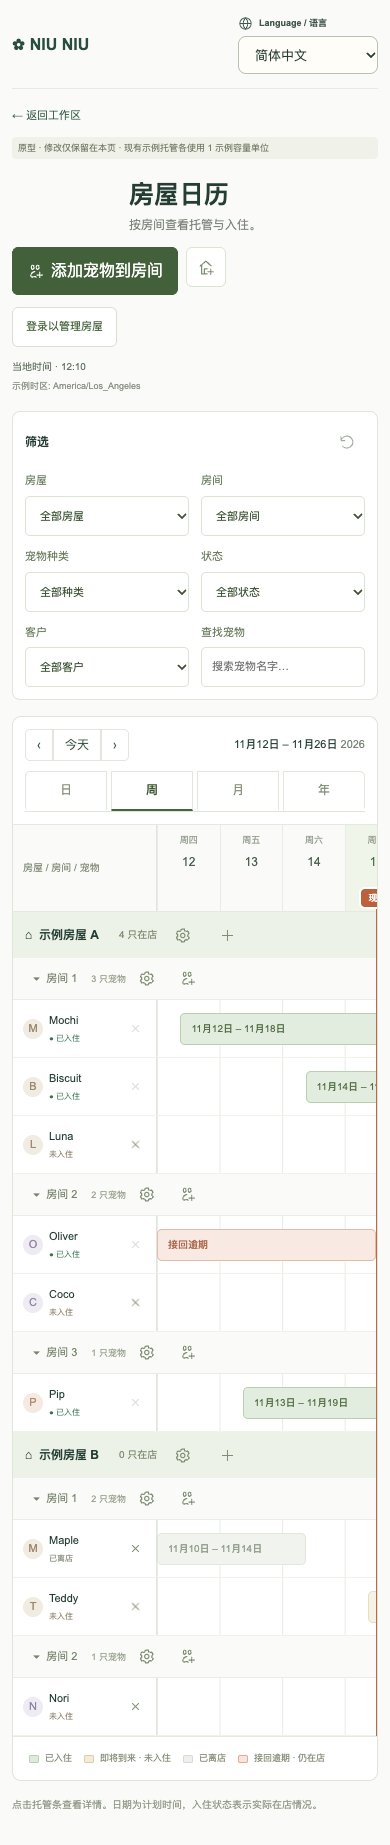
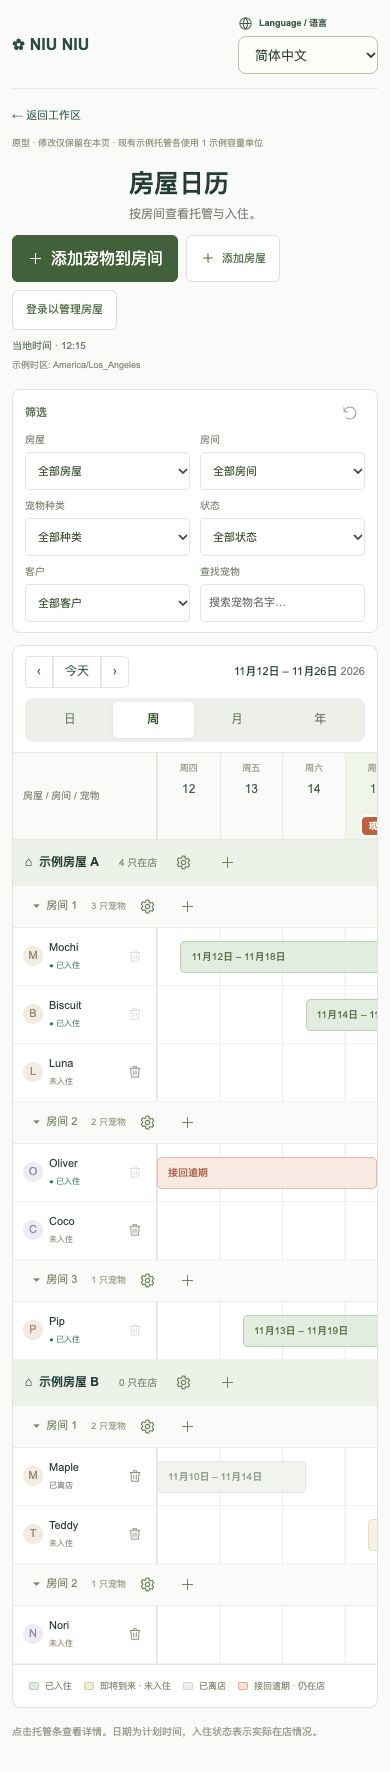
Simplify calendar filters and controls (#43)
* style: simplify calendar filters and controls

* docs: link calendar controls review

diff --git a/apps/web/src/house-calendar.tsx b/apps/web/src/house-calendar.tsx
@@ -71,7 +71,7 @@ export default function HouseCalendar({onLanguageChange}:{onLanguageChange:(lang
  <div className="hc-top"><a href="#">✿ <strong>NIU NIU</strong> <span>FAMILY PAWS</span></a><LanguageSelector onChange={onLanguageChange}/></div>
  <a className="hc-back" href="#/login">← {t('Back to workspace','返回工作区')}</a>
  <p className="hc-demo">{t('Prototype · Changes stay on this page · Existing sample stays use 1 illustrative capacity unit','原型 · 修改仅保留在本页 · 现有示例托管各使用 1 示例容量单位')}</p>
- <div className="hc-title"><div><h1>{t('House calendar','房屋日历')}</h1><p>{t('Stays and check-ins, by room.','按房间查看托管与入住。')}</p></div><div className="hc-title-actions"><div className="hc-main-actions"><button className="hc-apply hc-add-placement" onClick={()=>setAssignment(null)}><Icon name="pet-add"/>{t('Add pet to room','添加宠物到房间')}</button><button className="hc-settings hc-top-icon" title={t('Add house','添加房屋')} aria-label={t('Add house','添加房屋')} onClick={()=>setSettings({house:nextId.current++,creating:true})}><Icon name="house-add"/></button></div>{admin?<button className="hc-settings hc-top-icon" title={t('Manage houses & rooms','管理房屋与房间')} aria-label={t('Manage houses & rooms','管理房屋与房间')} onClick={()=>setManage(true)}><Icon name="settings"/></button>:<a className="hc-manage" href="#/login">{t('Sign in to manage houses','登录以管理房屋')}</a>}<div className="hc-live"><span/> {t('Local time','当地时间')} · {now.toLocaleTimeString(locale,{hour:'2-digit',minute:'2-digit'})}<small>{t('Sample timezone','示例时区')}: {Intl.DateTimeFormat().resolvedOptions().timeZone}</small></div></div></div>
+ <div className="hc-title"><div><h1>{t('House calendar','房屋日历')}</h1><p>{t('Stays and check-ins, by room.','按房间查看托管与入住。')}</p></div><div className="hc-title-actions"><div className="hc-main-actions"><button className="hc-apply hc-add-placement" onClick={()=>setAssignment(null)}><Icon name="plus"/>{t('Add pet to room','添加宠物到房间')}</button><button className="hc-manage hc-add-house" title={t('Add house','添加房屋')} aria-label={t('Add house','添加房屋')} onClick={()=>setSettings({house:nextId.current++,creating:true})}><Icon name="plus"/>{t('Add house','添加房屋')}</button>{admin?<button className="hc-settings hc-top-icon" title={t('Manage houses & rooms','管理房屋与房间')} aria-label={t('Manage houses & rooms','管理房屋与房间')} onClick={()=>setManage(true)}><Icon name="settings"/></button>:<a className="hc-manage" href="#/login">{t('Sign in to manage houses','登录以管理房屋')}</a>}</div><div className="hc-live"><span/> {t('Local time','当地时间')} · {now.toLocaleTimeString(locale,{hour:'2-digit',minute:'2-digit'})}<small>{t('Sample timezone','示例时区')}: {Intl.DateTimeFormat().resolvedOptions().timeZone}</small></div></div></div>
  {notice&&<p className="hc-notice" role="status">{notice}</p>}
  <section className="hc-filters" aria-label={t('Filters','筛选')}><div className="hc-filters-heading"><h2>{t('Filters','筛选')}</h2><button className="hc-clear" title={t('Clear filters','清除筛选')} aria-label={t('Clear filters','清除筛选')} disabled={house==='all'&&roomFilter==='all'&&speciesFilter==='all'&&statusFilter==='all'&&customerFilter==='all'&&!query} onClick={()=>{setHouse('all');setRoomFilter('all');setSpeciesFilter('all');setStatusFilter('all');setCustomerFilter('all');setQuery('');}}><Icon name="reset"/></button></div><div className="hc-filter-fields">
  <label>{t('House','房屋')}<select aria-label={t('House','房屋')} value={house} onChange={e=>{setHouse(e.target.value);setRoomFilter('all');}}><option value="all">{t('All houses','全部房屋')}</option>{locations.map(({id:h})=><option key={h} value={h}>{houseName(h)}</option>)}</select></label>
@@ -85,7 +85,7 @@ export default function HouseCalendar({onLanguageChange}:{onLanguageChange:(lang
  <div className="hc-scroll" id="hc-timeline-panel" role="tabpanel" aria-labelledby={'hc-tab-'+scale} tabIndex={0} aria-label={t('Scroll timeline horizontally','可横向滚动时间轴')}><div className={'hc-grid hc-'+scale}>
  {nowPos>=0&&nowPos<=100&&<div className="hc-now-overlay"><div style={{left:`${nowPos}%`}}><span className="hc-now-badge">{t('Now','现在')}</span></div></div>}
  <div className="hc-axis"><div className="hc-label">{t('House / room / pet','房屋 / 房间 / 宠物')}</div><div className="hc-track hc-ticks">{ticks.map((d,i)=><div key={i} style={{left:`${i/ticks.length*100}%`,width:`${100/ticks.length}%`}} className={date(d)===date(now)?'today':''}><small>{scale==='day'?date(d):scale==='year'?d.getFullYear():date(d,{weekday:'short'})}</small><strong>{scale==='day'?d.getHours()+':00':scale==='year'?date(d,{month:'short'}):d.getDate()}</strong></div>)}</div></div>
- {locations.filter(h=>(house==='all'||house===String(h.id))&&(!query&&speciesFilter==='all'&&statusFilter==='all'&&customerFilter==='all'&&roomFilter==='all'||visible.some(s=>s.house===h.id))).map(({id:h,rooms})=><React.Fragment key={h}><div className="hc-house">⌂ &nbsp;{houseName(h)} <small>{visible.filter(s=>s.house===h&&s.status==='in').length} {t('in care','只在店')}</small><button className="hc-settings" title={t('House settings','房屋设置')} aria-label={`${t('House settings','房屋设置')}: ${houseName(h)}`} onClick={()=>setSettings({house:h})}><Icon name="settings"/></button><button className="hc-settings" title={t('Add room','添加房间')} aria-label={t('Add room','添加房间')} onClick={()=>setSettings({house:h,room:nextId.current++,creating:true})}><Icon name="plus"/></button></div>{!rooms.length&&<p className="hc-empty">{t('No rooms yet. Add a room to place pets.','暂无房间，添加后可安排宠物。')}</p>}{rooms.filter(r=>roomFilter==='all'||roomFilter===h+'-'+r).filter(r=>!query&&speciesFilter==='all'&&statusFilter==='all'&&customerFilter==='all'||visible.some(s=>s.house===h&&s.room===r)).map(r=>{const key=h+'-'+r,rows=visible.filter(s=>s.house===h&&s.room===r),closed=collapsed.includes(key);return <React.Fragment key={r}><div className="hc-room-heading"><button className="hc-room" aria-expanded={!closed} onClick={()=>setCollapsed(closed?collapsed.filter(v=>v!==key):[...collapsed,key])}>{closed?'▸':'▾'} &nbsp;{roomName(h,r)}<small>{rows.length} {t('pets','只宠物')}</small></button><button className="hc-settings" title={t('Room settings','房间设置')} aria-label={`${t('Room settings','房间设置')}: ${houseName(h)} · ${roomName(h,r)}`} onClick={()=>setSettings({house:h,room:r})}><Icon name="settings"/></button><button className="hc-settings" title={t('Add pet','添加宠物')} aria-label={`${t('Add pet','添加宠物')}: ${houseName(h)} · ${roomName(h,r)}`} onClick={()=>setAssignment({house:h,room:r})}><Icon name="pet-add"/></button></div>{!closed&&!rows.length&&<p className="hc-room-empty">{t('No stays assigned','尚未安排托管')}</p>}{!closed&&rows.map(s=>{const left=pos(when(s.start)),right=pos(when(s.end)),actualEnd=s.overdue?nowPos:right;return <div className="hc-pet" key={s.id}><div className="hc-label"><span className={'hc-avatar '+s.species}>{s.name.slice(0,1)}</span><div><strong title={customerName(customerFor(s.name))}>{s.name}</strong><small className={'hc-status '+s.status}>{status(s)}</small></div><button className="hc-remove-pet" title={s.status==='in'?t('Record pickup before removing an in-care pet','在店宠物需先记录接回'):t('Remove placement','移除安排')} aria-label={`${t('Remove placement','移除安排')}: ${s.name}`} disabled={s.status==='in'} onClick={()=>{if(window.confirm(t('Remove this placement from the preview? The pet profile is kept.','从预览中移除此安排？宠物档案会保留。'))){setStays(previous=>previous.filter(p=>p.id!==s.id));setNotice(t('Placement removed. Pet profile kept.','已移除安排，宠物档案保留。'));}}}><Icon name="close"/></button></div><div className="hc-track" style={{backgroundSize:`${100/ticks.length}% 100%`}}>{actualEnd>0&&left<100&&<button className={'hc-stay '+s.status+(s.overdue?' overdue':'')} style={{left:`${Math.max(0,left)}%`,width:`${Math.min(100,actualEnd)-Math.max(0,left)}%`}} aria-label={`${s.name}: ${status(s)}, ${date(when(s.start))} – ${date(when(s.end))}${s.overdue?' · '+t('Pickup overdue','接回逾期'):''}`} onClick={()=>setSelected(s)}><span>{s.overdue?t('Pickup overdue','接回逾期'):date(when(s.start))+' – '+date(when(s.end))}</span></button>}</div></div>})}</React.Fragment>;})}</React.Fragment>)}
+ {locations.filter(h=>(house==='all'||house===String(h.id))&&(!query&&speciesFilter==='all'&&statusFilter==='all'&&customerFilter==='all'&&roomFilter==='all'||visible.some(s=>s.house===h.id))).map(({id:h,rooms})=><React.Fragment key={h}><div className="hc-house">⌂ &nbsp;{houseName(h)} <small>{visible.filter(s=>s.house===h&&s.status==='in').length} {t('in care','只在店')}</small><button className="hc-settings" title={t('House settings','房屋设置')} aria-label={`${t('House settings','房屋设置')}: ${houseName(h)}`} onClick={()=>setSettings({house:h})}><Icon name="settings"/></button><button className="hc-settings" title={t('Add room','添加房间')} aria-label={t('Add room','添加房间')} onClick={()=>setSettings({house:h,room:nextId.current++,creating:true})}><Icon name="plus"/></button></div>{!rooms.length&&<p className="hc-empty">{t('No rooms yet. Add a room to place pets.','暂无房间，添加后可安排宠物。')}</p>}{rooms.filter(r=>roomFilter==='all'||roomFilter===h+'-'+r).filter(r=>!query&&speciesFilter==='all'&&statusFilter==='all'&&customerFilter==='all'||visible.some(s=>s.house===h&&s.room===r)).map(r=>{const key=h+'-'+r,rows=visible.filter(s=>s.house===h&&s.room===r),closed=collapsed.includes(key);return <React.Fragment key={r}><div className="hc-room-heading"><button className="hc-room" aria-expanded={!closed} onClick={()=>setCollapsed(closed?collapsed.filter(v=>v!==key):[...collapsed,key])}>{closed?'▸':'▾'} &nbsp;{roomName(h,r)}<small>{rows.length} {t('pets','只宠物')}</small></button><button className="hc-settings" title={t('Room settings','房间设置')} aria-label={`${t('Room settings','房间设置')}: ${houseName(h)} · ${roomName(h,r)}`} onClick={()=>setSettings({house:h,room:r})}><Icon name="settings"/></button><button className="hc-settings" title={t('Add pet','添加宠物')} aria-label={`${t('Add pet','添加宠物')}: ${houseName(h)} · ${roomName(h,r)}`} onClick={()=>setAssignment({house:h,room:r})}><Icon name="plus"/></button></div>{!closed&&!rows.length&&<p className="hc-room-empty">{t('No stays assigned','尚未安排托管')}</p>}{!closed&&rows.map(s=>{const left=pos(when(s.start)),right=pos(when(s.end)),actualEnd=s.overdue?nowPos:right;return <div className="hc-pet" key={s.id}><div className="hc-label"><span className={'hc-avatar '+s.species}>{s.name.slice(0,1)}</span><div><strong title={customerName(customerFor(s.name))}>{s.name}</strong><small className={'hc-status '+s.status}>{status(s)}</small></div><button className="hc-remove-pet" title={s.status==='in'?t('Record pickup before removing an in-care pet','在店宠物需先记录接回'):t('Remove placement','移除安排')} aria-label={`${t('Remove placement','移除安排')}: ${s.name}`} disabled={s.status==='in'} onClick={()=>{if(window.confirm(t('Remove this placement from the preview? The pet profile is kept.','从预览中移除此安排？宠物档案会保留。'))){setStays(previous=>previous.filter(p=>p.id!==s.id));setNotice(t('Placement removed. Pet profile kept.','已移除安排，宠物档案保留。'));}}}><Icon name="trash"/></button></div><div className="hc-track" style={{backgroundSize:`${100/ticks.length}% 100%`}}>{actualEnd>0&&left<100&&<button className={'hc-stay '+s.status+(s.overdue?' overdue':'')} style={{left:`${Math.max(0,left)}%`,width:`${Math.min(100,actualEnd)-Math.max(0,left)}%`}} aria-label={`${s.name}: ${status(s)}, ${date(when(s.start))} – ${date(when(s.end))}${s.overdue?' · '+t('Pickup overdue','接回逾期'):''}`} onClick={()=>setSelected(s)}><span>{s.overdue?t('Pickup overdue','接回逾期'):date(when(s.start))+' – '+date(when(s.end))}</span></button>}</div></div>})}</React.Fragment>;})}</React.Fragment>)}
  {!visible.length&&<p className="hc-empty">{t('No pets match these filters.','没有符合筛选条件的宠物。')}</p>}
 
  </div></div><div className="hc-legend"><span><i className="in"/>{t('Checked in','已入住')}</span><span><i className="upcoming"/>{t('Upcoming · not checked in','即将到来 · 未入住')}</span><span><i className="out"/>{t('Checked out','已离店')}</span><span><i className="overdue"/>{t('Pickup overdue · still in care','接回逾期 · 仍在店')}</span></div></section>

diff --git a/apps/web/src/house-calendar.css b/apps/web/src/house-calendar.css
@@ -43,4 +43,9 @@
 .hc-filters{margin:22px 0 16px;padding:16px;background:#fff;border:1px solid #e0e6db;border-radius:8px}.hc-filters-heading{display:flex;align-items:center;justify-content:space-between;margin-bottom:12px}.hc-filters h2{font-size:12px;font-weight:600;margin:0}.hc-clear{border:0;background:none;color:#59744b;font-size:11px;padding:5px}.hc-clear:disabled{color:#a5ad9e;cursor:default}.hc-filter-fields{display:grid;grid-template-columns:1fr 1.5fr 1fr 1fr 1.4fr;gap:12px}.hc-filter-fields label,.hc-settings-form label{display:grid;gap:6px;font-size:11px;color:#6d7e61}.hc-filter-fields input,.hc-filter-fields select,.hc-settings-form input{width:100%;min-width:0;min-height:40px;padding:9px 10px;border:1px solid #dde4d6;border-radius:5px;background:#fff;color:#405537;font:inherit}.hc-filter-fields .hc-search{max-width:none}.hc-range .hc-scales{margin:0}.hc-settings-form{display:grid;gap:16px}.hc-settings-form label{font-size:12px}.hc-settings-form .hc-setup-note{margin:0}.hc-setting-parent{font-size:13px;margin:0;color:#647a55}.hc-settings-actions{display:flex;gap:10px;justify-content:flex-end;margin-top:8px}.hc-apply{border:1px solid #426039;background:#426039;color:#fff;border-radius:6px;padding:10px 14px;min-height:40px;font-size:12px}
 @media(max-width:700px){.hc-filter-fields{grid-template-columns:1fr 1fr;gap:12px}.hc-filter-fields .hc-search{grid-column:1/-1}.hc-range .hc-scales{width:100%;order:3}.hc-range{flex-wrap:wrap}.hc-filters{padding:12px;margin-top:18px}.hc-settings-form{gap:14px}}
 .hc-main-actions{display:flex;gap:8px;flex-wrap:wrap;justify-content:flex-end}.hc-row-action{border:0;background:transparent;font-size:11px;color:#58794b;padding:8px 10px;border-radius:5px;min-height:36px}.hc-row-action:hover{background:#e7eddf}.hc-house .hc-row-action{font-weight:400}.hc-remove-pet{display:flex;align-items:center;justify-content:center;margin-left:auto;border:0;background:none;padding:5px;color:#86947a;border-radius:4px;min-width:28px;min-height:30px}.hc-remove-pet svg{width:13px;height:13px}.hc-remove-pet:disabled{opacity:.3;cursor:default}.hc-remove-pet:not(:disabled):hover{background:#f6e9e3;color:#9a5340}.hc-danger{border:1px solid #e3c2b7;background:#fff8f4;color:#9b5740;padding:9px 12px;border-radius:6px;font-size:12px;min-height:40px}.hc-danger:disabled{opacity:.5;cursor:default}.hc-remove-section{border-top:1px solid #e5e9df;padding-top:16px}.hc-settings-form select{width:100%;min-height:40px;padding:9px 10px;border:1px solid #dde4d6;border-radius:5px;background:white;color:#405537;font:inherit}.hc-time-fields{display:grid;grid-template-columns:1fr 1fr;gap:12px}.hc-availability{background:#f6f8f1;padding:12px;border-radius:6px;font-size:12px;max-height:220px;overflow:auto}.hc-availability p{margin:12px 0 4px;font-weight:600}.hc-availability small{display:block;margin:5px 0;line-height:1.5;color:#758368}.hc-apply:disabled{opacity:.45;cursor:default}.hc-room-empty{font-size:11px;color:#8b977e;margin:0;padding:15px 28px;border-bottom:1px solid #eef1e8}.hc-notice{font-size:12px;padding:10px 14px;background:#edf4e7;color:#58714a;border-radius:6px}.hc-demo{max-width:100%;line-height:1.6}.hc-settings-form input[type=datetime-local]{font-size:12px;min-width:0}@media(max-width:700px){.hc-main-actions{justify-content:flex-start}.hc-time-fields{grid-template-columns:1fr}.hc-label{gap:6px}.hc-remove-pet{min-width:22px;padding:3px}.hc-label strong{font-size:11px}.hc-avatar{width:20px;height:20px}.hc-demo{display:block;margin:10px 0 0}.hc-house .hc-row-action{padding-left:4px}.hc-settings-form input{min-width:0}.hc-label .hc-status{font-size:8px}}
-.hc-filter-fields{grid-template-columns:repeat(3,minmax(0,1fr))}.hc-scales[role=tablist]{background:transparent;border-radius:0;border-bottom:1px solid #e0e6d9;padding:0;gap:4px}.hc-scales [role=tab]{border-radius:0;background:transparent;box-shadow:none;border-bottom:2px solid transparent;min-height:40px;color:#85917a}.hc-scales [role=tab][aria-selected=true]{border-bottom-color:#446537;color:#36552c;font-weight:600;background:transparent;box-shadow:none}.hc-top-icon{width:40px;height:40px;border:1px solid #dce4d4;background:#fff}.hc-title-actions>.hc-top-icon{align-self:flex-end}.hc-clear{display:grid;place-items:center;width:36px;height:36px;border-radius:5px}.hc-clear:not(:disabled):hover{background:#f1f5eb}.hc-clear svg{width:16px;height:16px}.hc-add-placement{display:inline-flex;align-items:center;gap:7px}.hc-add-placement svg{width:17px;height:17px}.hc-house>.hc-settings,.hc-room-heading>.hc-settings{width:36px;height:36px}@media(max-width:700px){.hc-filter-fields{grid-template-columns:repeat(2,minmax(0,1fr))}.hc-filter-fields .hc-search{grid-column:auto}.hc-title-actions>.hc-top-icon{align-self:flex-start}.hc-range .hc-scales{justify-content:flex-start}.hc-scales [role=tab]{flex:1}.hc-settings{min-width:36px}.hc-room-heading{gap:4px}}
+.hc-filter-fields{grid-template-columns:repeat(3,minmax(0,1fr))}.hc-scales[role=tablist]{background:#edf0e9;border-radius:8px;border:0;padding:4px;gap:2px}.hc-scales [role=tab]{border-radius:5px;border:0;background:transparent;box-shadow:none;min-height:34px;color:#6d7c64;padding:8px 15px}.hc-scales [role=tab][aria-selected=true]{color:#36552c;font-weight:600;background:#fff;box-shadow:0 1px 4px #293d2714}.hc-top-icon{width:40px;height:40px;border:1px solid #dce4d4;background:#fff}.hc-title-actions>.hc-top-icon{align-self:flex-end}.hc-clear{display:grid;place-items:center;width:36px;height:36px;border-radius:5px}.hc-clear:not(:disabled):hover{background:#f1f5eb}.hc-clear svg{width:16px;height:16px}.hc-add-placement{display:inline-flex;align-items:center;gap:7px}.hc-add-placement svg{width:17px;height:17px}.hc-house>.hc-settings,.hc-room-heading>.hc-settings{width:36px;height:36px}@media(max-width:700px){.hc-filter-fields{grid-template-columns:repeat(2,minmax(0,1fr))}.hc-filter-fields .hc-search{grid-column:auto}.hc-title-actions>.hc-top-icon{align-self:flex-start}.hc-range .hc-scales{justify-content:flex-start}.hc-scales [role=tab]{flex:1}.hc-settings{min-width:36px}.hc-room-heading{gap:4px}}
+
+/* Compact labelled filters, familiar add/remove icons, and rounded view tabs. */
+.hc-filters{display:flex;align-items:flex-end;gap:14px;padding:12px;margin:18px 0 14px;background:#fff}.hc-filters-heading{margin:0;gap:4px;min-height:36px;flex-shrink:0}.hc-filters h2{font-size:11px;color:#687b5e}.hc-clear{width:30px;height:36px}.hc-filter-fields{flex:1;min-width:0;grid-template-columns:1fr 1fr 1fr 1fr 1fr 1.2fr;gap:10px}.hc-filter-fields label{font-size:10px;gap:5px;color:#7b8871}.hc-filter-fields input,.hc-filter-fields select{min-height:36px;padding:8px;font-size:11px;border-color:#e2e7dc}.hc-add-house{display:inline-flex;align-items:center;gap:6px}.hc-add-house svg{width:16px;height:16px}.hc-title-actions{gap:8px}.hc-range{padding-top:10px;padding-bottom:10px}.hc-settings{color:#708562}.hc-settings:hover{color:#38562c}.hc-remove-pet svg{width:14px;height:14px}.hc-remove-pet:not(:disabled):hover{color:#9e4936}.hc-demo{background:transparent;color:#909984;padding:0}.hc-title{margin-top:18px}.hc-title-actions .hc-live small{font-size:9px}
+@media(min-width:701px) and (max-width:1100px){.hc-filters{align-items:center}.hc-filter-fields{grid-template-columns:repeat(3,minmax(0,1fr))}.hc-filters-heading{flex-direction:column}}
+@media(max-width:700px){.hc-filters{display:block;padding:10px 12px;margin:16px 0 12px}.hc-filters-heading{min-height:24px;margin-bottom:6px}.hc-clear{width:30px;height:26px}.hc-filter-fields{grid-template-columns:repeat(2,minmax(0,1fr));gap:8px 10px}.hc-filter-fields label{gap:4px}.hc-filter-fields select,.hc-filter-fields input{min-height:38px;padding:8px;font-size:11px}.hc-range .hc-scales{width:100%;justify-content:space-between}.hc-scales [role=tab]{min-height:36px;flex:1;padding:8px 12px}.hc-demo{line-height:1.5;font-size:9px}.hc-title-actions{gap:8px}.hc-live small{font-size:9px}.hc-title{gap:10px}.hc-settings{min-width:36px;min-height:36px}}

diff --git a/apps/web/src/icons.tsx b/apps/web/src/icons.tsx
@@ -1,4 +1,4 @@
 import React from 'react';
-export default function Icon({name}:{name:'edit'|'link'|'close'|'logout'|'settings'|'plus'|'reset'|'house-add'|'pet-add'}) {
-  return <svg width="20" height="20" viewBox="0 0 24 24" fill="none" stroke="currentColor" strokeWidth="1.7" strokeLinecap="round" strokeLinejoin="round" aria-hidden="true" focusable="false">{name==='plus'?<path d="M12 5v14M5 12h14"/>:name==='reset'?<><path d="M3 10a9 9 0 1 1 2 8M3 4v6h6"/></>:name==='house-add'?<><path d="m3 10 8-7 8 7M5 9v12h8M9 21v-7h4M18 14v8m-4-4h8"/></>:name==='pet-add'?<><ellipse cx="8" cy="6" rx="2" ry="3"/><ellipse cx="15" cy="6" rx="2" ry="3"/><path d="M11 12c-4 0-8 7-4 8l4-1 2 1M18 13v8m-4-4h8"/></>:name==='settings'?<><path d="m9 3-.7 2.3-2 .9L4 5.7 2 9l1.8 1.7v2.6L2 15l2 3.3 2.3-.5 2 .9L9 21h4l.7-2.3 2-.9 2.3.5 2-3.3-1.8-1.7v-2.6L20 9l-2-3.3-2.3.5-2-.9L13 3Z"/><circle cx="11" cy="12" r="3"/></>:name==='edit'?<><path d="m15 4 5 5M4 20l4-1L20 7a2.1 2.1 0 0 0-3-3L5 16l-1 4Z"/></>:name==='link'?<><path d="m10 13 4-4M8 16l-1 1a4.2 4.2 0 0 1-6-6l4-4a4.2 4.2 0 0 1 6 0M13 8l1-1a4.2 4.2 0 0 1 6 6l-4 4a4.2 4.2 0 0 1-6 0" transform="translate(1 0)"/></>:name==='close'?<path d="m6 6 12 12M6 18 18 6"/>:<><path d="M9 4H5v16h4M10 12h11m-4-4 4 4-4 4"/></>}</svg>;
+export default function Icon({name}:{name:'edit'|'link'|'close'|'logout'|'settings'|'plus'|'reset'|'house-add'|'pet-add'|'trash'}) {
+  return <svg width="20" height="20" viewBox="0 0 24 24" fill="none" stroke="currentColor" strokeWidth="1.7" strokeLinecap="round" strokeLinejoin="round" aria-hidden="true" focusable="false">{name==='trash'?<><path d="M3 6h18M9 6V3h6v3M5 6l1 15h12l1-15M10 10v7m4-7v7"/></>:name==='plus'?<path d="M12 5v14M5 12h14"/>:name==='reset'?<><path d="M3 10a9 9 0 1 1 2 8M3 4v6h6"/></>:name==='house-add'?<><path d="m3 10 8-7 8 7M5 9v12h8M9 21v-7h4M18 14v8m-4-4h8"/></>:name==='pet-add'?<><ellipse cx="8" cy="6" rx="2" ry="3"/><ellipse cx="15" cy="6" rx="2" ry="3"/><path d="M11 12c-4 0-8 7-4 8l4-1 2 1M18 13v8m-4-4h8"/></>:name==='settings'?<><path d="m10 3-.6 2.4-2 .8-2.1-1.1-2 3.5 1.8 1.6v2.6l-1.8 1.6 2 3.5 2.1-1.1 2 .8L10 21h4l.6-2.4 2-.8 2.1 1.1 2-3.5-1.8-1.6v-2.6l1.8-1.6-2-3.5-2.1 1.1-2-.8L14 3Z"/><circle cx="12" cy="12" r="3"/></>:name==='edit'?<><path d="m15 4 5 5M4 20l4-1L20 7a2.1 2.1 0 0 0-3-3L5 16l-1 4Z"/></>:name==='link'?<><path d="m10 13 4-4M8 16l-1 1a4.2 4.2 0 0 1-6-6l4-4a4.2 4.2 0 0 1 6 0M13 8l1-1a4.2 4.2 0 0 1 6 6l-4 4a4.2 4.2 0 0 1-6 0" transform="translate(1 0)"/></>:name==='close'?<path d="m6 6 12 12M6 18 18 6"/>:<><path d="M9 4H5v16h4M10 12h11m-4-4 4 4-4 4"/></>}</svg>;
 }

diff --git a/docs/session-handoff.md b/docs/session-handoff.md
@@ -1,5 +1,11 @@
 # Session handoff — 2026-10-22
 
+## Compact filters and familiar controls — 2026-11-15
+
+Owner requested more compact filters, recognizable icons and the original tab appearance. Branch `polish/calendar-controls` starts from merged #42 (`6448ff9`, GitHub Verified). Desktop filters are one labelled row (83px panel at 1440px); tablet uses three columns and phones two columns with tighter spacing. Restored original rounded segmented-style date tabs while keeping ARIA/keyboard behavior. Replaced composite add icons with plus, placement removal with trash, normalized gear shape, added visible Add house label and grouped header actions in one row. Tooltips/accessibility names and all filter/placement behavior remain. Actual native localhost Chrome visually reviewed; desktop and Chinese mobile screenshots refreshed.
+
+Production build passed; all 13 browser tests passed on Node 24, followed by three calendar/setup cases plus type check after final header grouping. Review/merge record: https://github.com/Fifiloveniuniu/niu-niu-family-paws/pull/43 (implementation `65f29db`, GitHub Verified). Final hosted deployment remains deferred. Previous prototype PR #42 is merged and verified. Saved demo data and room WIP #41 are preserved.
+
 ## Calendar prototype review record — 2026-11-15
 
 PR #42: https://github.com/Fifiloveniuniu/niu-niu-family-paws/pull/42 is the authoritative review/merge record for the locally reviewed calendar prototype, placement controls, customer filter, date tabs and icon refinements. Implementation `c162c02fd80c6d4e2348d5e6127f264b9959f275` is GitHub Verified; carried planning commit `9c76bdb` is also Verified. Production build, API type check, 17 unit tests and all 13 browser tests passed. Hosted delivery remains deferred; this is dev-only preview UI, with production Houses navigation retained. Room WIP #41 remains untouched. Consult PR checks/state before continuing; routine merge is authorized after CI passes.
